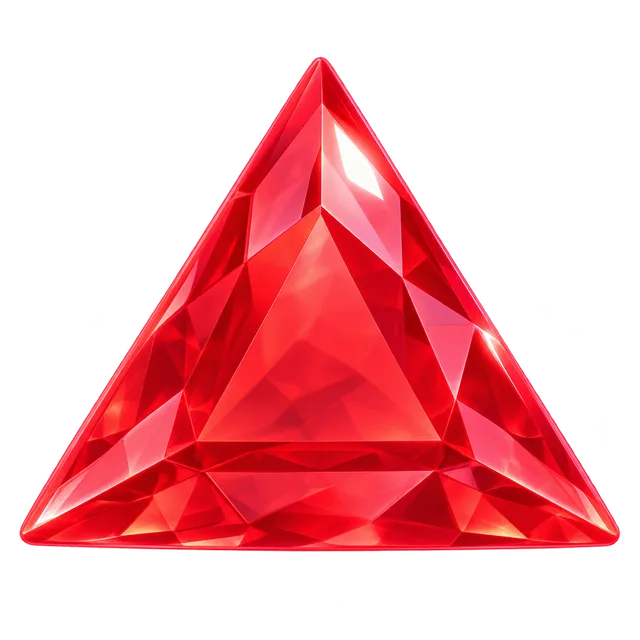
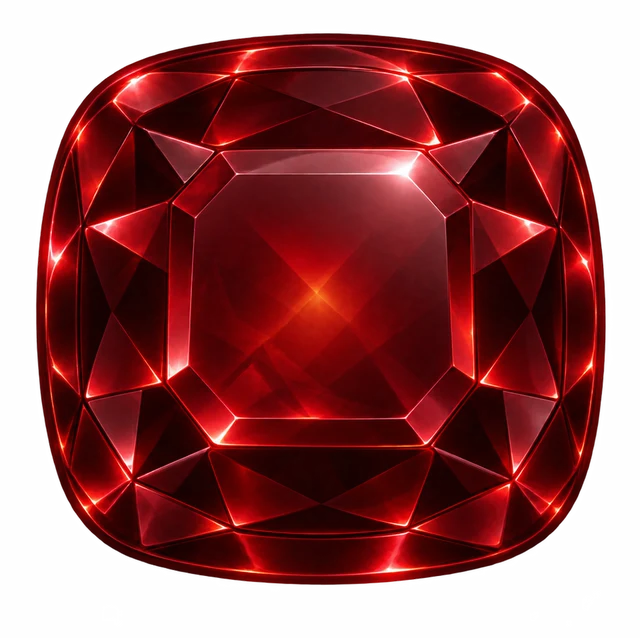
Dragon Gem: dark red cushion-cut ruby (Codex art)
New prop_gem still made with make_image_codex.py (refs: gold star + coin),
manifest/generator/docs prompt updated, storybook page 6 WebP refreshed.

diff --git a/site/index.html b/site/index.html
@@ -132,7 +132,7 @@
     <div class="page-art page-art-props">
       <img class="bg" src="img/bg_starburst.webp" alt="" width="1280" height="768" loading="lazy">
       <img class="sprite s-prop s-prop-1" src="img/prop_coin.webp?v=2" alt="a silver dragon coin" width="640" height="640" loading="lazy">
-      <img class="sprite s-prop s-prop-2" src="img/prop_gem.webp" alt="a ruby dragon gem" width="640" height="640" loading="lazy">
+      <img class="sprite s-prop s-prop-2" src="img/prop_gem.webp?v=2" alt="a dark red ruby dragon gem" width="640" height="640" loading="lazy">
       <img class="sprite s-prop s-prop-3" src="img/prop_star.webp?v=2" alt="a golden dragon star" width="640" height="640" loading="lazy">
     </div>
     <div class="page-text">

diff --git a/crystal_oracle/tools/gen_manifest_dragonglow.py b/crystal_oracle/tools/gen_manifest_dragonglow.py
@@ -194,10 +194,12 @@ STILLS = [
        "and candy dots inside the rim. No text, no numbers. Silver only - NOT gold.", SPRITE, STYLE),
      {}),
     ("prop_gem", "prop", True, "MVP",
-     "DRAGON GEM: a big ruby-red (#FF3B47) gem cut as a clear TRIANGLE (point up), chunky glossy facets, a bright "
-     "highlight; front view; no face. The TOP prize; also the dragon-gem bowl sign (the host holds it).",
-     P("A big RUBY-RED (#FF3B47) dragon gem cut as a clear TRIANGLE with the point up: chunky glossy facets and one "
-       "bright highlight. Front view, a clear triangle silhouette, no face, no text.", SPRITE, STYLE),
+     "DRAGON GEM: a big dark red ruby (#7A0A16, #D21A2C glints) in a CUSHION CUT (rounded-corner square), chunky "
+     "glossy facets, a bright highlight and a warm inner glow; front view; no face. The TOP prize; also the "
+     "dragon-gem bowl sign (the host holds it).",
+     P("A big DARK RED RUBY dragon gem (deep garnet-ruby #7A0A16 with brighter ruby #D21A2C glints) in a classic "
+       "CUSHION CUT: a rounded-corner square with gently bowed sides, a flat table facet and chunky glossy crown "
+       "facets, one bright highlight and a warm inner glow. Front view, tilted very slightly, no face, no text.", SPRITE, STYLE),
      {}),
     ("prop_star", "prop", True, "MVP",
      "GOLDEN STAR: a chunky glossy gold (#FFC83D) five-point star with rounded points and a soft warm glow; no face; "

diff --git a/crystal_oracle/assets/ASSET-STATUS.md b/crystal_oracle/assets/ASSET-STATUS.md
@@ -1,6 +1,6 @@
 # Asset status - DRAGONGLOW - The Sleepy Candy Dragon
 
-Generated 2026-10-26 19:15 by `tools/build_assets.py` from `assets/manifest.json` (output: `sd_card`). Regenerated by every run - don't edit.
+Generated 2026-10-30 19:17 by `tools/build_assets.py` from `assets/manifest.json` (output: `sd_card`). Regenerated by every run - don't edit.
 
 States: **REAL** = built from your source file; **PLACEHOLDER** = test card / synth sound / Windows TTS (`--test-clips`, `--placeholders`); **MISSING** = nothing on the card - the firmware falls back to a built-in animation / chime (or silence for voice).
 
@@ -61,7 +61,7 @@ States: **REAL** = built from your source file; **PLACEHOLDER** = test card / sy
 | snuffwick_chicken | MVP | character | snuffwick_chicken.png | 1219x1290 | yes | reveal_t0_1 | Edit of snuffwick_base: instead of the snuffer he hugs a big pale lem~ |
 | prop_crystal | MVP | prop | prop_crystal.png | 1254x1254 | yes | awaken, awaken_1, awaken_2, awaken_3, chapter_d | One pale clear faceted crystal with the shape of your real 3D-printed~ |
 | prop_coin | MVP | prop | prop_coin.png | 1254x1254 | yes | reveal_t0_1, reveal_t1 | HOARD COIN: a big round shiny SILVER candy coin (#D9DEE8), like a cho~ |
-| prop_gem | MVP | prop | prop_gem.png | 1254x1254 | yes | reveal_t3 | DRAGON GEM: a big ruby-red (#FF3B47) gem cut as a clear TRIANGLE (poi~ |
+| prop_gem | MVP | prop | prop_gem.png | 1619x971 | yes | reveal_t3 | DRAGON GEM: a big dark red ruby (#7A0A16, #D21A2C glints) in a CUSHIO~ |
 | prop_star | MVP | prop | prop_star.png | 1254x1254 | yes | reveal_t2, reveal_t2_2 | GOLDEN STAR: a chunky glossy gold (#FFC83D) five-point star with roun~ |
 | bg_cave_lit | NICE | background | bg_cave_lit.png | 1619x972 | no | attract_full, moonfull, chapter_a, chapter_b, chapter_e | Edit of bg_cave: the Hoard Beacon now BLAZES warm amber (#FFB347) wit~ |
 | butterscotch_yawn | NICE | character | butterscotch_yawn.png | 1295x1214 | yes | sleepy | Edit of butterscotch_base: a big sleepy yawn - round open mouth (no t~ |
@@ -94,7 +94,7 @@ States: **REAL** = built from your source file; **PLACEHOLDER** = test card / sy
 | reveal_t0_3 | MVP | layers | bg_cave, bg_cave, butterscotch_surprise, butterscotch_puff, butterscotch_giggle~ | oracle/clips/reveal_t0_3.omj | REAL | 32 fr, 2.5 s, max 76.7 KB, 1.67 MB total, q7 |
 | reveal_t1 | MVP | layers | bg bg_cave, butterscotch_delight, prop_coin | oracle/clips/reveal_t1.omj | REAL | 32 fr, 2.5 s, max 77.5 KB, 2.39 MB total, q7 |
 | reveal_t2 | MVP | layers | bg bg_wakestone, butterscotch_surprise, prop_star | oracle/clips/reveal_t2.omj | REAL | 32 fr, 2.5 s, max 60.8 KB, 1.83 MB total, q5 |
-| reveal_t3 | MVP | layers | bg bg_starburst, prop_gem, butterscotch_delight | oracle/clips/reveal_t3.omj | REAL | 39 fr, 3.0 s, max 26.1 KB, 925.0 KB total, q5 |
+| reveal_t3 | MVP | layers | bg bg_starburst, prop_gem, butterscotch_delight | oracle/clips/reveal_t3.omj | REAL | 39 fr, 3.0 s, max 27.5 KB, 955.2 KB total, q5 |
 | replay | MVP | layers | bg bg_cave, butterscotch_wink (or butterscotch_peek) | oracle/clips/replay.omj | REAL | 52 fr, 4.0 s, max 76.7 KB, 3.88 MB total, q7 |
 | nocrystal | MVP | layers | bg bg_cave, butterscotch_puff, butterscotch_delight | oracle/clips/nocrystal.omj | REAL | 46 fr, 3.5 s, max 76.3 KB, 3.41 MB total, q7 |
 | sleepy | MVP | layers | bg bg_cave, butterscotch_yawn (or butterscotch_sleep) | oracle/clips/sleepy.omj | REAL | 52 fr, 4.0 s, max 76.7 KB, 3.88 MB total, q7 |

diff --git a/crystal_oracle/CHATGPT-ASSETS.md b/crystal_oracle/CHATGPT-ASSETS.md
@@ -44,7 +44,7 @@ Everything the screen needs, in priority order. **MVP** = needed for Halloween n
 | 12 | `snuffwick_chicken.png` | instead of the snuffer he hugs a big pale lemon-yellow squeaky rubber chicken with an … | MVP | snuffwick_base | reveal_t0_1 |
 | 13 | `prop_crystal.png` | One pale clear faceted crystal with the shape of your real 3D-printed crystals (give … | MVP | — | awaken, chapter_d |
 | 14 | `prop_coin.png` | HOARD COIN: a big round shiny SILVER candy coin (#D9DEE8), like a chocolate coin in … | MVP | — | reveal_t0_1, reveal_t1 |
-| 15 | `prop_gem.png` | DRAGON GEM: a big ruby-red (#FF3B47) gem cut as a clear TRIANGLE (point up), chunky … | MVP | — | reveal_t3 |
+| 15 | `prop_gem.png` | DRAGON GEM: a big dark red ruby in a CUSHION CUT (rounded-corner square), chunky … | MVP | — | reveal_t3 |
 | 16 | `prop_star.png` | GOLDEN STAR: a chunky glossy gold (#FFC83D) five-point star with rounded points and a … | MVP | — | reveal_t2, reveal_t2_2 |
 | 17 | `bg_cave_lit.png` | the Hoard Beacon now BLAZES warm amber (#FFB347) with a soft warm pool of light on the … | NICE | bg_cave | attract_full, moonfull, chapter_a, chapter_b, chapter_e |
 | 18 | `butterscotch_yawn.png` | a big sleepy yawn - round open mouth (no teeth), eyes squeezed shut; face-only. (Sleepy … | NICE | butterscotch_base | sleepy |
@@ -165,7 +165,7 @@ A chunky glossy SILVER DRAGON COIN (#D9DEE8, polished smooth silver foil with so
 ### `prop_gem` — MVP · transparent
 
 ```text
-A big RUBY-RED (#FF3B47) dragon gem cut as a clear TRIANGLE with the point up: chunky glossy facets and one bright highlight. Front view, a clear triangle silhouette, no face, no text. Full figure, centred, nothing cropped, on a TRANSPARENT background (PNG). If you can't make it transparent, use a flat pure green #00FF00 background with no shadow and no floor. Cute storybook 3D-painted style like a modern family animated film; soft rounded chunky shapes; glossy candy-like materials; smooth clean shading; gentle rim light; no grain, no fine texture, no mist, no bokeh, no tiny stars, no text, no letters, no watermark. Spooky-cute and cozy, never scary.
+A big DARK RED RUBY dragon gem (deep garnet-ruby #7A0A16 with brighter ruby #D21A2C glints) in a classic CUSHION CUT: a rounded-corner square with gently bowed sides, a flat table facet and chunky glossy crown facets, one bright highlight and a warm inner glow. Front view, tilted very slightly, no face, no text. Full figure, centred, nothing cropped, on a TRANSPARENT background (PNG). If you can't make it transparent, use a flat pure green #00FF00 background with no shadow and no floor. Cute storybook 3D-painted style like a modern family animated film; soft rounded chunky shapes; glossy candy-like materials; smooth clean shading; gentle rim light; no grain, no fine texture, no mist, no bokeh, no tiny stars, no text, no letters, no watermark. Spooky-cute and cozy, never scary.
 ```
 
 ### `prop_star` — MVP · transparent

diff --git a/PROJECT-NOTES.md b/PROJECT-NOTES.md
@@ -44,6 +44,15 @@ Read `crystal_oracle/README.md` first, then `crystal_oracle/docs/DESIGN.md` (con
   2027-01-06) → stills from ChatGPT + our ffmpeg "layers" animator; voice from ElevenLabs/OpenAI TTS.
 
 ### Changelog
+- **2026-10-30 (Dragon Gem = dark red cushion-cut ruby)** — owner: the gem should be a dark red ruby,
+  cushion cut, art by Codex to fit the rest. `prop_gem.png` re-made with `make_image_codex.py` (refs: the
+  gold star + coin); first take was too bright (kept as `assets/.codex_jobs/prop_gem_bright_take.png`), the
+  installed one is a darker edit of it; the triangle original is `prop_gem.png.old`. Prompt/desc updated in
+  `gen_manifest_dragonglow.py` + `manifest.json` (hand-synced, not regenerated) + CHATGPT-ASSETS/STORY.
+  Rebuilt `reveal_t3` for both cards (`--only still:prop_gem`, plain + `--ipad`). Site: new
+  `site/img/prop_gem.webp` (640² yuva420p via ffmpeg, no PIL here) + `?v=2` on page 6 — live. **Not
+  changed:** caption/bowl colour `#FF3B47` (dark red would vanish on the indigo) and `bowl.legend_shape =
+  triangle` (the station only draws circle/triangle/star icons).
 - **2026-10-29 (run the iPad rig at the parents' house — DROPPED same day, mom doesn't want it)** —
   nothing was set up in UniFi. The two-network plinth firmware stays (harmless at home, already flashed).
   Original plan, for if it comes back: owner wanted the show at mom's (UniFi
@@ -277,7 +286,7 @@ Read `crystal_oracle/README.md` first, then `crystal_oracle/docs/DESIGN.md` (con
   rebuilt (reveal_t1/t2/t2_2 + the coin gag clip); storybook `site/img/prop_coin|prop_star.webp` replaced
   (640², `?v=2`). Print the new bowl signs from these.
 - **2026-10-26 (Dragon Gem = top prize; hoard fills the cave floor; no attract hints)** — owner:
-  * **Prize swap:** tier 3 (legendary, ~4%, GLOW 100, host-held) is now the **DRAGON GEM** (red triangle,
+  * **Prize swap:** tier 3 (legendary, ~4%, GLOW 100, host-held) is now the **DRAGON GEM** (red gem — a cushion-cut dark ruby since 2026-10-30; was a triangle,
     `prop_gem`, revealed on `bg_starburst`); tier 2 (rare, ~18%, 90–99) is the **GOLDEN STAR** (gold star
     bowl, `prop_star` rising out of the Wakestone). Odds/logic untouched — only what each tier shows/says.
     Done in `tools/gen_manifest_dragonglow.py` (clips, lines, words, sfx labels) → manifest,

diff --git a/crystal_oracle/STORY.md b/crystal_oracle/STORY.md
@@ -225,7 +225,7 @@ Each result has the same name as the picture on its bowl, so a three-year-old he
 | 0 Trick | ~15% | 1–39 (hidden) | **GOBLIN TRICK!** (a silly gag, then candy) | **silver coin** | silver hoard coin |
 | 1 Treat | ~63% | 40–89 | **HOARD COIN!** | **silver coin** | silver hoard coin (`prop_coin`) |
 | 2 Rare | ~18% | 90–99 | **GOLDEN STAR!** | **gold star** | gold star (`prop_star`) |
-| 3 Legendary | ~4% | 100 | **DRAGON GEM!** | **dragon gem**, held by the host | ruby triangle gem (`prop_gem`) |
+| 3 Legendary | ~4% | 100 | **DRAGON GEM!** | **dragon gem**, held by the host | dark ruby cushion-cut gem (`prop_gem`) |
 
 ### Setting up the bowls
 - **Silver coin:** a big round stainless or foil bowl, with the silver coin sign.
